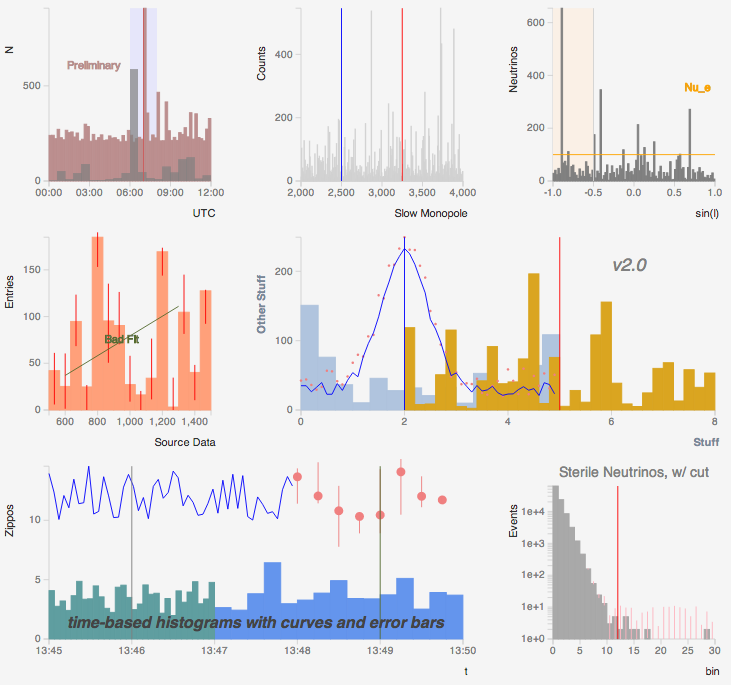
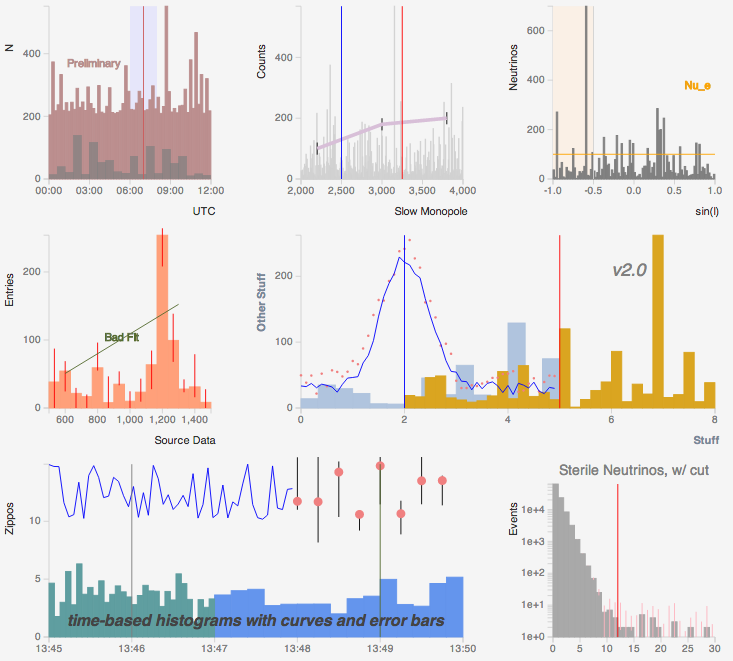
Issue 6755: (i3d3) Change rendering order for error bars

diff --git a/i3d3.js b/i3d3.js
@@ -171,14 +171,6 @@ i3d3 = (function(i3d3, window, undefined) {
         // Draw point sets
         for(i=0; i < pointsets.length; i++) {
             svg.append("g").attr("points_" + i);
-            svg.selectAll("points_" + i + " circle")
-                .data(pointsets[i].values)
-                .enter()
-                .append("circle")
-                .attr("cx", function (d, i) { return xscale(d.x); })
-                .attr("cy", function (d) { return yscale(d.y); })
-                .attr("r", pointsets[i].size || 4)
-                .attr("fill", pointsets[i].color || "grey");
             if (pointsets[i].errors) {
                 svg.selectAll("points_errors_" + i + " path")
                     .data(pointsets[i].errors)
@@ -194,6 +186,14 @@ i3d3 = (function(i3d3, window, undefined) {
                     .style("stroke", pointsets[i].error_color || "grey");
                        
             }
+            svg.selectAll("points_" + i + " circle")
+                .data(pointsets[i].values)
+                .enter()
+                .append("circle")
+                .attr("cx", function (d, i) { return xscale(d.x); })
+                .attr("cy", function (d) { return yscale(d.y); })
+                .attr("r", pointsets[i].size || 4)
+                .attr("fill", pointsets[i].color || "grey");
         }
 
         // Draw line sets
@@ -203,12 +203,6 @@ i3d3 = (function(i3d3, window, undefined) {
 
         linesets = _.filter(opt.data, function (e) { return e.type === "lines"; });
         for(i=0; i < linesets.length; i++) {
-            svg.append("path")
-                .attr("d", line(linesets[i].values))
-                .attr("class", "lines_" + i)
-                .attr("fill", "none")
-                .attr("stroke", linesets[i].color || "grey")
-                .attr("stroke-width", linesets[i].width || 1);
             if (linesets[i].errors) {
                 svg.selectAll("lines_errors_" + i + " path")
                     .data(linesets[i].errors)
@@ -223,6 +217,12 @@ i3d3 = (function(i3d3, window, undefined) {
                     .attr("y2", function(d, j) { return yscale(linesets[i].values[j].y + d[1]); })
                     .style("stroke", linesets[i].error_color || "grey");
             }
+            svg.append("path")
+                .attr("d", line(linesets[i].values))
+                .attr("class", "lines_" + i)
+                .attr("fill", "none")
+                .attr("stroke", linesets[i].color || "grey")
+                .attr("stroke-width", linesets[i].width || 1);
         }
 
         // Horizontal and vertical lines

diff --git a/example.html b/example.html
@@ -37,6 +37,15 @@ function errorbars(n, s) {
 }
 
 
+function sample_curve(ampl, phase, noise_weight, offset, sig2) {
+    return _.map(_.range(50), function(i) { 
+         var x = 0.1 * i; 
+         return {x: x, y: ampl * (Math.exp(-(Math.pow(x - phase, 2)/sig2)) +  
+                                  Math.random()/noise_weight + offset)}; 
+     });
+}
+
+
 function makedate(s) {
    return new Date(s.replace(/-/g, '/'));
 }
@@ -76,14 +85,11 @@ i3d3.plot({data: [{type: "bars",
                    color: "lightgrey",
                    range: [2000, 4000]},
                   {type: "lines",
-                   values: [{x: 2550, y: 200},
-                            {x: 2700, y: 240},  
-                            {x: 2850, y: 260},  
-                            {x: 3000, y: 280}, 
-                            {x: 3200, y: 300}],
-                   errors: errorbars(5, 50),
-                   error_color: "purple",
-                   color: "purple"}],
+                   width: 4,
+                   values: [{x: 2200, y: 100}, {x: 3000, y: 180}, {x: 3800, y: 200}],
+                   errors: _.map(_.range(3), function() { return [20, 20] }),
+                   error_color: "black",
+                   color: "thistle"}],
            div: "plot3",
            size: [w, h],
            padding_right: 50, 
@@ -129,15 +135,6 @@ i3d3.plot({data: [{type: "bars",
                             color: "darkolivegreen", units: "pixels"}}],
 
 });
-
-
-function sample_curve(ampl, phase, noise_weight, offset, sig2) {
-    return _.map(_.range(50), function(i) { 
-         var x = 0.1 * i; 
-         return {x: x, y: ampl * (Math.exp(-(Math.pow(x - phase, 2)/sig2)) +  
-                                  Math.random()/noise_weight + offset)}; 
-     });
-}
 
 
 i3d3.plot({data: [{type: "lines",
@@ -187,7 +184,7 @@ i3d3.plot({data: [{type: "lines",
                                   8, 10, 5),
                    errors: errorbars(8, 4),
                    color: "lightcoral", 
-                   error_color: "lightcoral", 
+                   error_color: "black",
                    size: 5},
                   {type: "bars",
                    bins: _.map(testdata(15), Math.log),
